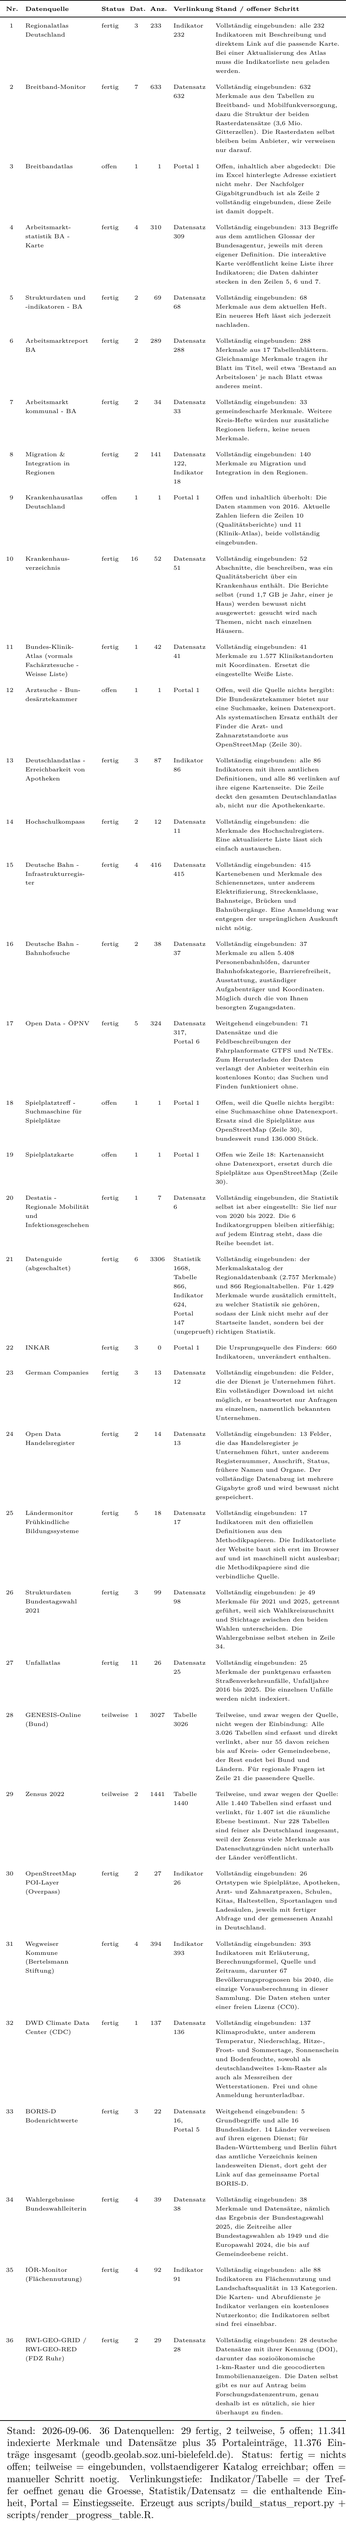
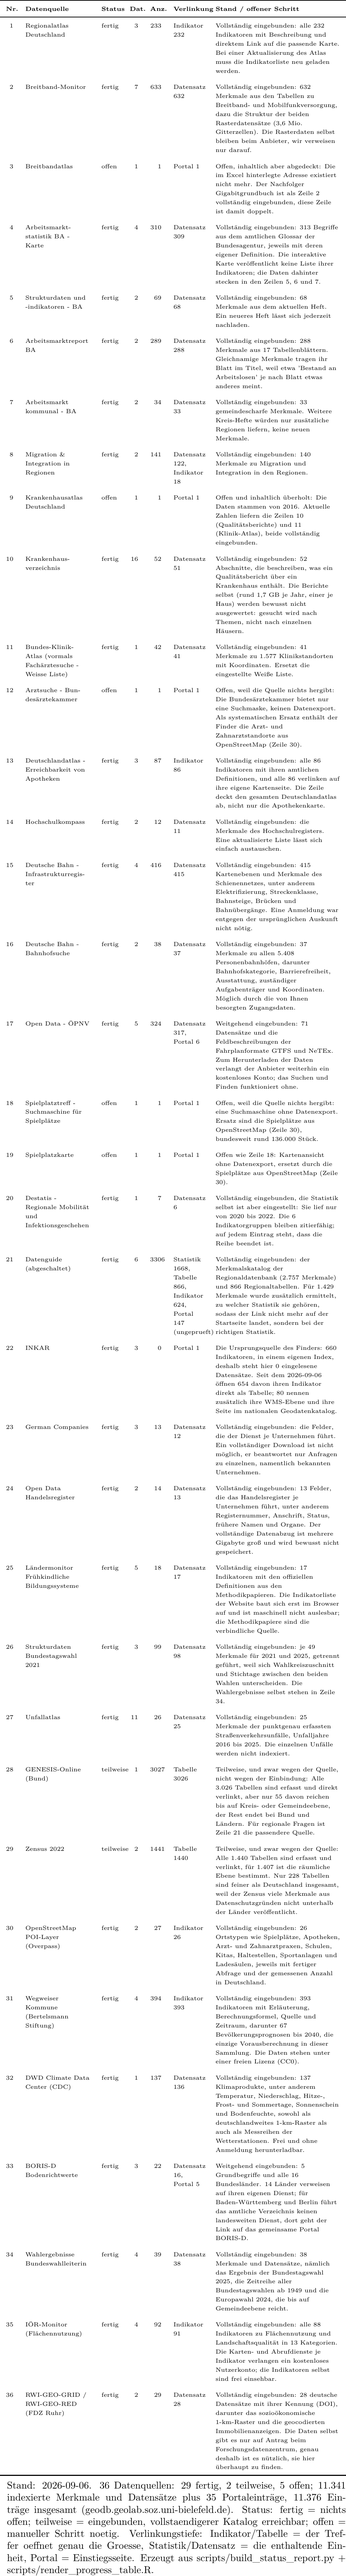
Refresh the handover deliverables and say what is actually still missing
The candidate list in the tracker had gone stale in the most misleading way: all seven sources it
proposed are indexed by now (OSM POI, Wegweiser Kommune, BORIS-D, DWD, FDZ Ruhr, election results,
IÖR-Monitor), while the page still said none of them were downloaded. It is rewritten against the
index rather than against the workbook, and each entry was checked for what the index really
contains rather than assumed:

  * BKG Geobasisdaten. The index measures indicators on districts, municipalities and grid cells
    and offers no way to obtain those geometries: a keyword pass over all 12,036 records finds
    nothing on VG250, the INSPIRE grids or the Gemeindeverzeichnis. That is the largest hole.
  * FDZ der Statistischen Ämter and FDZ der BA im IAB. FDZ Ruhr is indexed and used; its
    counterparts, which is what this audience applies for, are not described anywhere.
  * Marktstammdatenregister, reachable today only through IÖR wind-turbine density.
  * Umweltbundesamt air quality and noise: one Wegweiser indicator on air, nothing on noise.
  * Polizeiliche Kriminalstatistik: crime exists only as a few aggregate indicators.
  * Mobilität in Deutschland: schedules and accessibility are indexed, travel behaviour is not.

The INKAR row also read as if nothing were indexed for it, because its 660 indicators live in
their own index; it now says so and states that 654 of them link to the indicator itself.

Deliverables regenerated and copied to the Kühne share
[…]

diff --git a/scripts/build_status_report.py b/scripts/build_status_report.py
@@ -194,9 +194,17 @@ OPEN_ITEMS: Dict[str, Dict[str, str]] = {
         "next": "Two catalogues under this row: the Datenguide GENESIS Merkmalskatalog (2,757 Merkmale) and the live Regionaldatenbank table catalogue (129 statistics, 866 tables, each with a working table-level deep link). The API reports exactly 129 statistics, so that enumeration is complete. On 2026-08-29 the weakest links in the whole index were fixed: 1,596 Merkmale pointed at the portal home page because no statistic code appears in their definition text. catalogue/statistics2variable answers that directly, so scripts/resolve_merkmal_statistics.py asked once per Merkmal and resolved 1,429 of 1,596 (89.5%); portal-level records here fell to 167 and statistic-level rose from 843 to 2,272. Federal statistic links are marked unverified because that portal is a client-rendered SPA that answers a 2.5 KB shell for any code, real or invented.",
     },
     "inkar": {
-        "de": "Die Ursprungsquelle des Finders: 660 Indikatoren, unverändert enthalten.",
+        "de": ("Die Ursprungsquelle des Finders: 660 Indikatoren, in einem eigenen Index, deshalb "
+               "steht hier 0 eingelesene Datensätze. Seit dem 2026-09-06 öffnen 654 davon ihren "
+               "Indikator direkt als Tabelle; 80 nennen zusätzlich ihre WMS-Ebene und ihre Seite "
+               "im nationalen Geodatenkatalog."),
         "state": "done",
-        "next": "Already the finder's original source (660 indicators).",
+        "next": ("The finder's original source, kept in its own index (hence 0 records counted "
+                 "here). INKAR has no address for a single indicator, so 654 of the 660 are linked "
+                 "through /api/inkar/open/<M_ID>, which creates one stored query per indicator "
+                 "somebody opens; the six left out are the ZOM classification variables. 80 "
+                 "indicators also carry their BBSR WMS layer and their record in the national "
+                 "Geodatenkatalog."),
     },
     "german-companies": {
         "de": "Vollständig eingebunden: die Felder, die der Dienst je Unternehmen führt. Ein vollständiger Download ist nicht möglich, er beantwortet nur Anfragen zu einzelnen, namentlich bekannten Unternehmen.",
@@ -273,29 +281,42 @@ OPEN_ITEMS: Dict[str, Dict[str, str]] = {
 
 # Sources NOT in the workbook that a German regional-data finder arguably should carry.
 # Ordered by what they would add that nothing already indexed provides.
+# Everything the first version of this list suggested is now indexed (OSM POI, Wegweiser Kommune,
+# BORIS-D, DWD, FDZ Ruhr, election results, IÖR-Monitor), so it was rewritten on 2026-09-06 against
+# what the index actually contains rather than against the workbook. Each entry below was checked:
+# it names something no indexed source provides, not merely a portal we have not visited.
 CANDIDATES = [
-    ("OpenStreetMap / Overpass POI layers", "https://overpass-turbo.eu/",
-     "The systematic replacement for the crowd-sourced portals in the workbook: playgrounds, "
-     "pharmacies, GP practices, schools, kindergartens, stops, supermarkets, all as coordinates "
-     "with a documented tag schema. Free, no registration, reproducible queries."),
-    ("Wegweiser Kommune (Bertelsmann Stiftung)", "https://www.wegweiser-kommune.de/",
-     "About 100 indicators for every municipality above 5,000 inhabitants plus demographic "
-     "projections to 2040. Complements INKAR on the projection side, which nothing here has."),
-    ("BORIS-D / Bodenrichtwerte", "https://www.bodenrichtwerte-boris.de/",
-     "Official land values from the Gutachterausschüsse, parcel level. The land-price counterpart "
-     "to INKAR's asking rents."),
-    ("DWD Climate Data Center", "https://opendata.dwd.de/climate_environment/CDC/",
-     "Station and gridded climate series (temperature, precipitation, heat days) at 1 km. The only "
-     "environmental/climate axis; free and openly downloadable."),
-    ("RWI-GEO-GRID / RWI-GEO-RED (FDZ Ruhr)", "https://fdz.rwi-essen.de/",
-     "1 km grid socio-economic data and geocoded real-estate advertisements. Scientific-use files "
-     "on application, heavily used in German regional research."),
-    ("Election results (Bundeswahlleiter and the Länder)", "https://www.bundeswahlleiter.de/",
-     "We index the 2021 structural data but not the results. Constituency and municipality level "
-     "results for federal, European and state elections are downloadable as CSV."),
-    ("IÖR-Monitor", "https://www.ioer-monitor.de/",
-     "Around 90 land-use and landscape-quality indicators at fine spatial resolution, with a WMS/WFS "
-     "API. Deeper on land use than the ALKIS shares in INKAR and Regionalatlas."),
+    ("Geobasisdaten des BKG (Open Data)", "https://gdz.bkg.bund.de/",
+     "The layer everything else is joined to, and the one thing the index has none of: "
+     "administrative boundaries (VG250, VG5000), the INSPIRE 100 m and 1 km grids, the "
+     "Gemeindeverzeichnis with its historical Gebietsstände, and the georeferenced address data. "
+     "A search for 'Kreisgrenzen' or 'Gitterzellen als Geometrie' currently returns indicators "
+     "measured on those units and no way to obtain the units themselves. Open data, free."),
+    ("FDZ der Statistischen Ämter und FDZ der BA im IAB",
+     "https://www.forschungsdatenzentrum.de/",
+     "The research-data counterpart to FDZ Ruhr, which is indexed and is one of the most used "
+     "entries: AFiD, the regional Mikrozensus files, and on the IAB side SIAB, BHP and IEB, all "
+     "with regional identifiers and all on application. This is the family this finder's audience "
+     "actually applies for, and nothing in the index describes it."),
+    ("Marktstammdatenregister (Bundesnetzagentur)", "https://www.marktstammdatenregister.de/",
+     "Every electricity and gas generation unit in Germany with its address, coordinates, "
+     "capacity and commissioning date, downloadable in full. The index reaches this only through "
+     "IÖR's wind-turbine density and one Deutschlandatlas indicator, so unit-level work on the "
+     "energy transition has nothing to go to."),
+    ("Luftqualität und Umgebungslärm (Umweltbundesamt)",
+     "https://www.umweltbundesamt.de/daten/luft/luftdaten",
+     "Station measurements since 1990 with an API, plus the modelled area maps and the noise "
+     "mapping under the Umgebungslärmrichtlinie. Air pollution and noise are standard exposure "
+     "variables in health and inequality research; the index has exactly one Wegweiser indicator "
+     "on air quality and nothing on noise."),
+    ("Polizeiliche Kriminalstatistik (BKA)", "https://www.bka.de/DE/AktuelleInformationen/"
+     "StatistikenLagebilder/PolizeilicheKriminalstatistik/pks_node.html",
+     "Crime by offence and district, published as tables every year. The index carries crime only "
+     "as a handful of aggregate indicators (Deutschlandatlas, Wegweiser, GENESIS), so the offence "
+     "breakdown that criminological and neighbourhood work needs is missing."),
+    ("Mobilität in Deutschland (MiD)", "https://www.mobilitaet-in-deutschland.de/",
+     "The national travel survey, with regional identifiers and a scientific use file. The index "
+     "describes public-transport schedules and accessibility but no travel behaviour."),
 ]
 
 # How precisely a record's outward link lands on the thing it describes.

diff --git a/data_sources/CHECKLIST.md b/data_sources/CHECKLIST.md
@@ -220,7 +220,7 @@ Generated by `scripts/build_status_report.py` on 2026-09-06. Do not hand-edit: c
 - **Coverage in workbook:** 1993-2022 | access: web UI / search form only | note: abhängig von Variable
 - **Downloaded:** 3 file(s), 305.0 KB: `geodienste.json`, `portal.html`, `wizard_katalog.json`
 - **Indexed:** 0 indicator-level record(s)
-- **Next step:** Already the finder's original source (660 indicators).
+- **Next step:** The finder's original source, kept in its own index (hence 0 records counted here). INKAR has no address for a single indicator, so 654 of the 660 are linked through /api/inkar/open/<M_ID>, which creates one stored query per indicator somebody opens; the six left out are the ZOM classification variables. 80 indicators also carry their BBSR WMS layer and their record in the national Geodatenkatalog.
 
 ## [x] 23. German Companies
 
@@ -275,7 +275,7 @@ Generated by `scripts/build_status_report.py` on 2026-09-06. Do not hand-edit: c
 ## [~] 28. GENESIS-Online (Bund)
 
 - **Folder:** `data_sources/28-genesis-online-bund/`
-- **Portal:** https://genesis.destatis.de/datenbank/online/  (unreachable (The read operation timed out))
+- **Portal:** https://genesis.destatis.de/datenbank/online/  (HTTP 200)
 - **Coverage in workbook:** 1949-2026 | access: direct file download, web UI / search form only, machine-readable API | note: Bundesdatenbank der amtlichen Statistik; Tabellenkatalog über die REST-API abrufbar
 - **Downloaded:** 1 file(s), 1001.2 KB: `genesis_catalogue_destatis.json`
 - **Indexed:** 3026 indicator-level record(s) + 1 portal-level record
@@ -366,10 +366,9 @@ Generated by `scripts/build_status_report.py` on 2026-09-06. Do not hand-edit: c
 
 Suggested additions, most valuable first. Each would cover something nothing currently indexed provides. Nothing here is downloaded yet.
 
-- **OpenStreetMap / Overpass POI layers** (https://overpass-turbo.eu/): The systematic replacement for the crowd-sourced portals in the workbook: playgrounds, pharmacies, GP practices, schools, kindergartens, stops, supermarkets, all as coordinates with a documented tag schema. Free, no registration, reproducible queries.
-- **Wegweiser Kommune (Bertelsmann Stiftung)** (https://www.wegweiser-kommune.de/): About 100 indicators for every municipality above 5,000 inhabitants plus demographic projections to 2040. Complements INKAR on the projection side, which nothing here has.
-- **BORIS-D / Bodenrichtwerte** (https://www.bodenrichtwerte-boris.de/): Official land values from the Gutachterausschüsse, parcel level. The land-price counterpart to INKAR's asking rents.
-- **DWD Climate Data Center** (https://opendata.dwd.de/climate_environment/CDC/): Station and gridded climate series (temperature, precipitation, heat days) at 1 km. The only environmental/climate axis; free and openly downloadable.
-- **RWI-GEO-GRID / RWI-GEO-RED (FDZ Ruhr)** (https://fdz.rwi-essen.de/): 1 km grid socio-economic data and geocoded real-estate advertisements. Scientific-use files on application, heavily used in German regional research.
-- **Election results (Bundeswahlleiter and the Länder)** (https://www.bundeswahlleiter.de/): We index the 2021 structural data but not the results. Constituency and municipality level results for federal, European and state elections are downloadable as CSV.
-- **IÖR-Monitor** (https://www.ioer-monitor.de/): Around 90 land-use and landscape-quality indicators at fine spatial resolution, with a WMS/WFS API. Deeper on land use than the ALKIS shares in INKAR and Regionalatlas.
+- **Geobasisdaten des BKG (Open Data)** (https://gdz.bkg.bund.de/): The layer everything else is joined to, and the one thing the index has none of: administrative boundaries (VG250, VG5000), the INSPIRE 100 m and 1 km grids, the Gemeindeverzeichnis with its historical Gebietsstände, and the georeferenced address data. A search for 'Kreisgrenzen' or 'Gitterzellen als Geometrie' currently returns indicators measured on those units and no way to obtain the units themselves. Open data, free.
+- **FDZ der Statistischen Ämter und FDZ der BA im IAB** (https://www.forschungsdatenzentrum.de/): The research-data counterpart to FDZ Ruhr, which is indexed and is one of the most used entries: AFiD, the regional Mikrozensus files, and on the IAB side SIAB, BHP and IEB, all with regional identifiers and all on application. This is the family this finder's audience actually applies for, and nothing in the index describes it.
+- **Marktstammdatenregister (Bundesnetzagentur)** (https://www.marktstammdatenregister.de/): Every electricity and gas generation unit in Germany with its address, coordinates, capacity and commissioning date, downloadable in full. The index reaches this only through IÖR's wind-turbine density and one Deutschlandatlas indicator, so unit-level work on the energy transition has nothing to go to.
+- **Luftqualität und Umgebungslärm (Umweltbundesamt)** (https://www.umweltbundesamt.de/daten/luft/luftdaten): Station measurements since 1990 with an API, plus the modelled area maps and the noise mapping under the Umgebungslärmrichtlinie. Air pollution and noise are standard exposure variables in health and inequality research; the index has exactly one Wegweiser indicator on air quality and nothing on noise.
+- **Polizeiliche Kriminalstatistik (BKA)** (https://www.bka.de/DE/AktuelleInformationen/StatistikenLagebilder/PolizeilicheKriminalstatistik/pks_node.html): Crime by offence and district, published as tables every year. The index carries crime only as a handful of aggregate indicators (Deutschlandatlas, Wegweiser, GENESIS), so the offence breakdown that criminological and neighbourhood work needs is missing.
+- **Mobilität in Deutschland (MiD)** (https://www.mobilitaet-in-deutschland.de/): The national travel survey, with regional identifiers and a scientific use file. The index describes public-transport schedules and accessibility but no travel behaviour.
